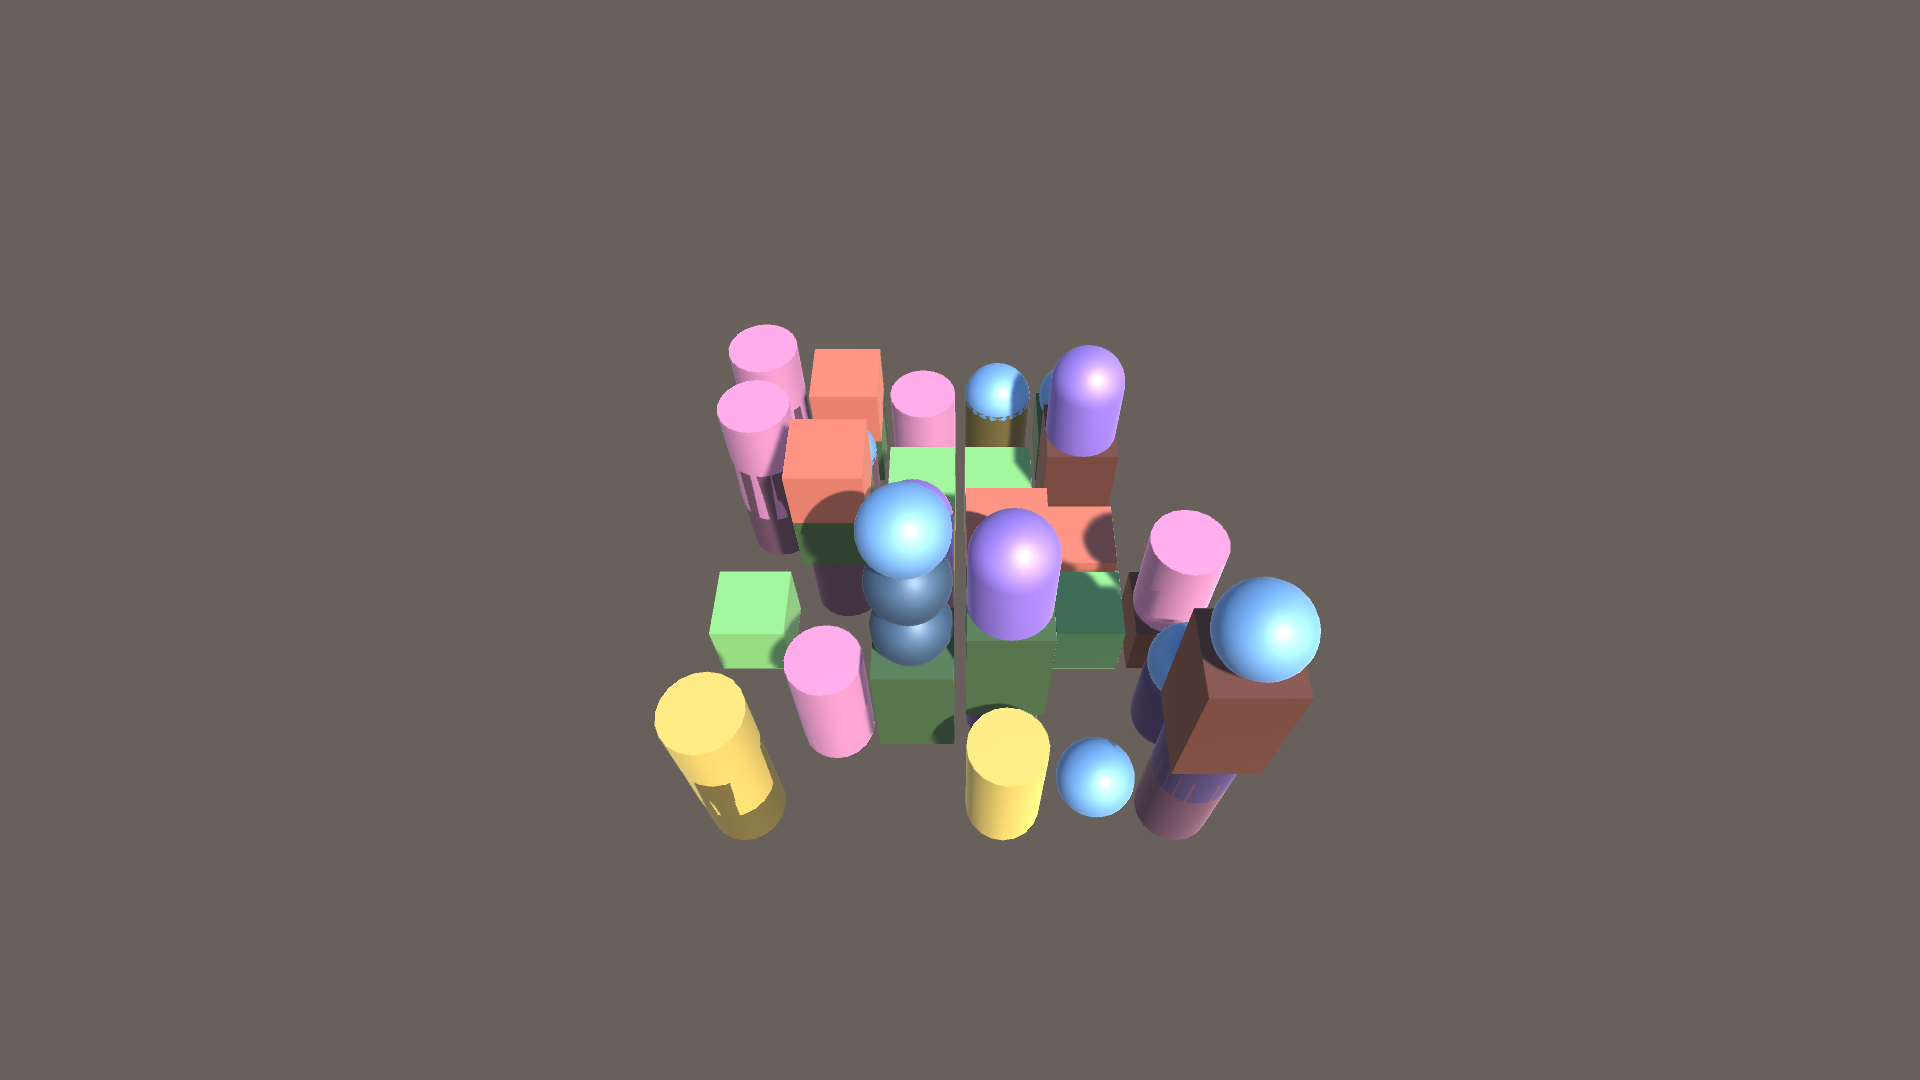
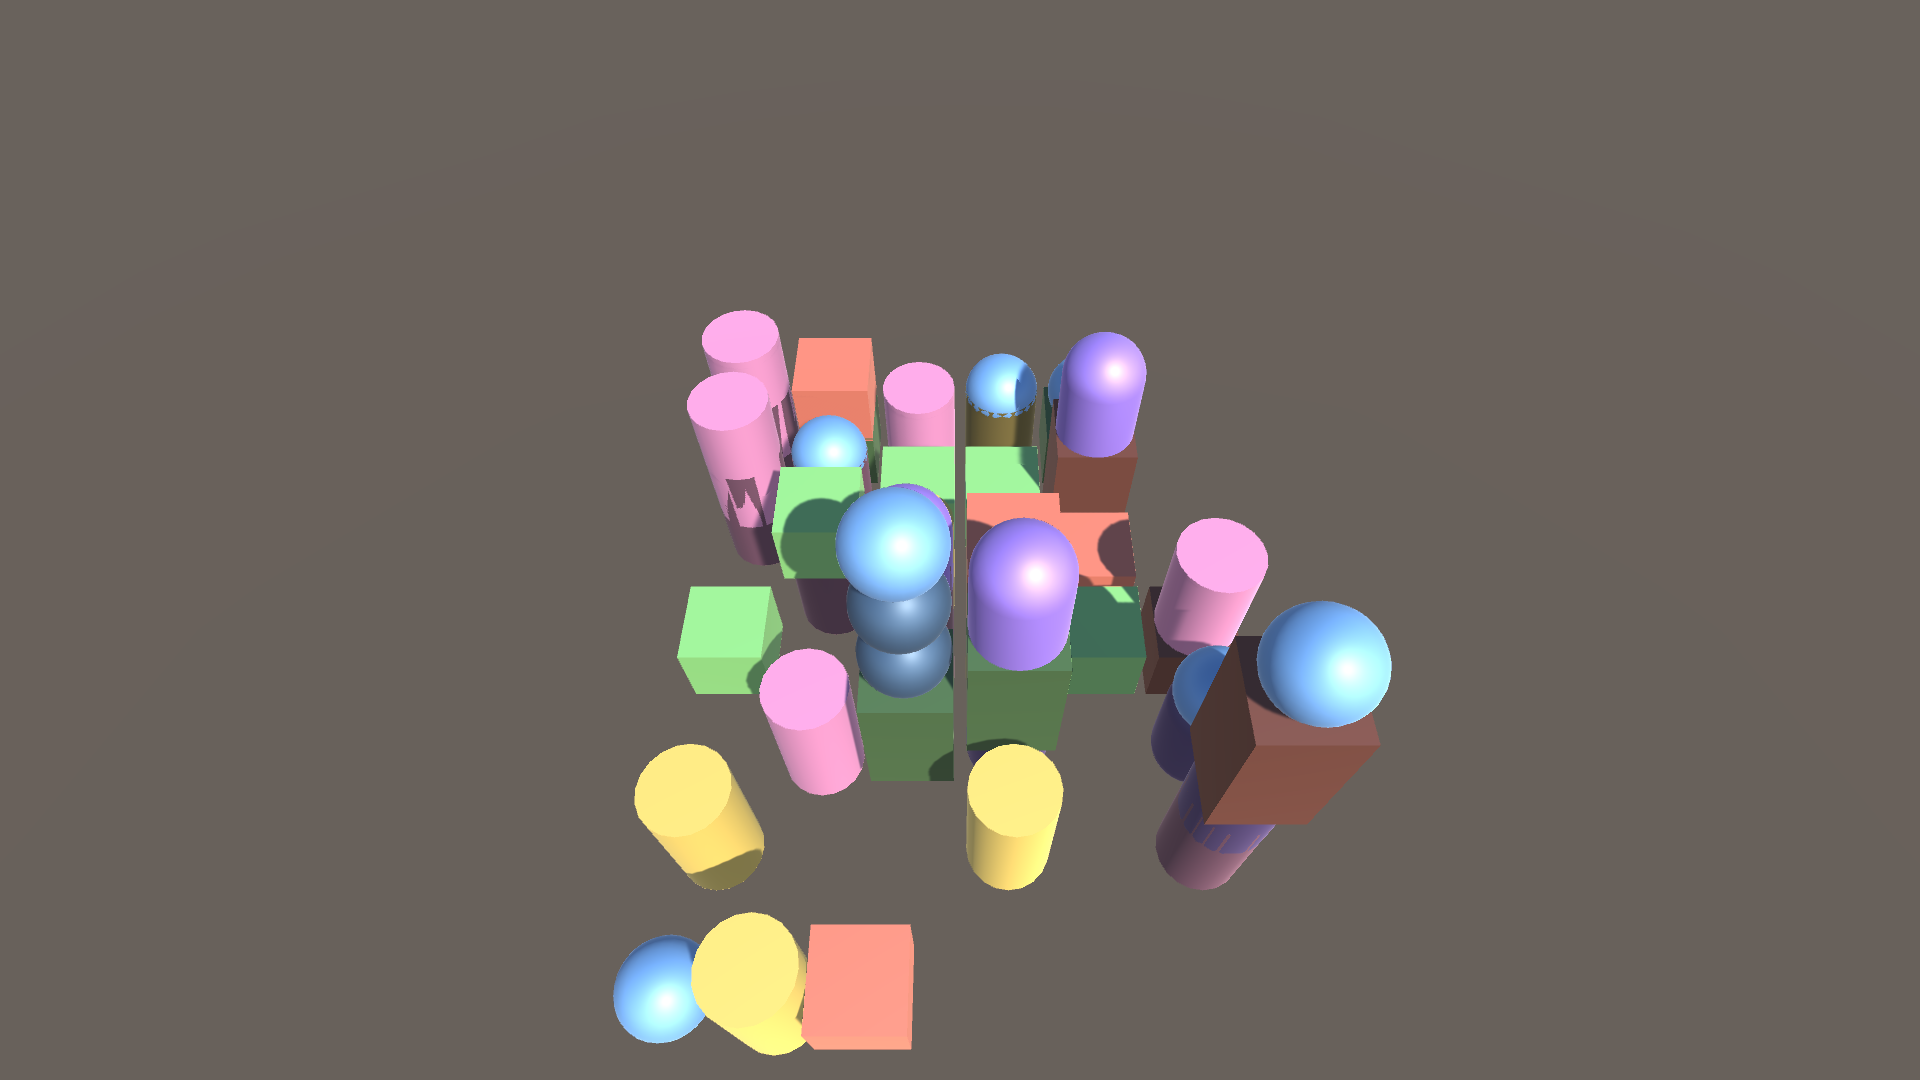
Fit the match camera to the real content points
FitCamera used a box around the board and a full five-tile headroom, so the
board filled about a third of the landscape frame. It now fits every tile's
corners at its layout position, every tray slot, and one popup point above
the tallest stack. The point list is built once per level.

Verified in Unity 6000.4.0f1, Play Mode, Editor: stage 5 (seed 12345) with
three tiles tapped into the tray (Moved x3, tray 3). Projected content
spans 46% of the width at 16:9 (height-limited) and 88% at 9:16. Every
content point and tray corner is inside the viewport at both aspects
(docs/evidence/T2/framing.txt). Console: 0 errors; one Input Manager
deprecation warning.
Not verified: popup and HUD framing (IMGUI is not in render captures),
live window resize. dotnet: CoreTests 109/109; GameCompile 0 errors.

Claude-Session: https://claude.ai/code/session_012P5rTfETeUchgk9jzakDhF

Changed region(s): [[0.3125, 0.275, 0.75, 0.825], [0.3125, 0.825, 0.5, 0.9778]]

diff --git a/PulseArenaGame/Assets/PulseArena/Game/Match/MatchController.cs b/PulseArenaGame/Assets/PulseArena/Game/Match/MatchController.cs
@@ -60,6 +60,7 @@ namespace PulseArena.Game
         private int _maxStack;
         private int _fitWidth;
         private int _fitHeight;
+        private readonly List<Vector3> _fitPoints = new List<Vector3>();
 
         public MatchBoard Board => _board;
 
@@ -98,6 +99,7 @@ namespace PulseArena.Game
             }
 
             _maxStack = MaxStackHeight(level.Tiles);
+            BuildFitPoints(level.Tiles);
             LayoutBoard();
             RefreshTints();
             FitCamera();
@@ -201,11 +203,11 @@ namespace PulseArena.Game
             }
         }
 
-        // Keeps the board, tray and popup room on screen at any aspect ratio. The content's bounding sphere must fit inside
-        // the narrower of the vertical and horizontal fields of view. Only the distance changes; the camera's pitch stays.
+        // Keeps the board, tray and popup room on screen at any aspect ratio. The camera fits the real content points, not a
+        // box around them, so the board takes as much of the frame as the content allows. Only the distance changes.
         private void FitCamera()
         {
-            if (_camera == null || _spec == null)
+            if (_camera == null || _fitPoints.Count == 0)
             {
                 return;
             }
@@ -213,40 +215,67 @@ namespace PulseArena.Game
             _fitWidth = Screen.width;
             _fitHeight = Screen.height;
 
-            float halfBoardX = (_spec.GridWidth - 1) * 0.5f * CellSpacing + TileRadius;
-            float halfBoardZ = (_spec.GridHeight - 1) * 0.5f * CellSpacing + TileRadius;
-            float halfTrayX = (_rules.TrayCapacity - 1) * 0.5f * TraySpacing + TileRadius;
-            float halfX = Mathf.Max(halfBoardX, halfTrayX);
-            float minZ = Mathf.Min(-halfBoardZ, TrayZ - TileRadius);
-            float maxZ = Mathf.Max(halfBoardZ, TrayZ + TileRadius);
-            float maxY = _maxStack * TileHeight + TileHalfHeight + PopupHeadroom;
+            Vector3 min = _fitPoints[0];
+            Vector3 max = _fitPoints[0];
+            foreach (Vector3 p in _fitPoints)
+            {
+                min = new Vector3(Mathf.Min(min.x, p.x), Mathf.Min(min.y, p.y), Mathf.Min(min.z, p.z));
+                max = new Vector3(Mathf.Max(max.x, p.x), Mathf.Max(max.y, p.y), Mathf.Max(max.z, p.z));
+            }
 
-            var min = new Vector3(-halfX, -TileHalfHeight, minZ);
-            var max = new Vector3(halfX, maxY, maxZ);
             Vector3 center = (min + max) * 0.5f;
-
-            // Place the camera on its own view axis so that all eight corners of the content box fit in the frustum.
-            // For a corner at (right, up, ahead) from the content centre, the camera distance d must satisfy
-            // |right| / (d + ahead) <= tan(halfH) and |up| / (d + ahead) <= tan(halfV).
             float tanV = Mathf.Tan(_camera.fieldOfView * Mathf.Deg2Rad * 0.5f);
             float tanH = tanV * _camera.aspect;
             Vector3 right = _camera.transform.right;
             Vector3 up = _camera.transform.up;
             Vector3 forward = _camera.transform.forward;
+
+            // The camera sits at distance d behind the centre on its own view axis. A point at offset rel from the centre is
+            // inside the frustum when its sideways and vertical offsets, divided by the tangent of the half field, do not
+            // exceed its depth (its forward offset plus d). Take the smallest d that holds for every point.
             float distance = 0f;
-            for (int i = 0; i < 8; i++)
+            foreach (Vector3 p in _fitPoints)
             {
-                var corner = new Vector3(
-                    (i & 1) == 0 ? min.x : max.x,
-                    (i & 2) == 0 ? min.y : max.y,
-                    (i & 4) == 0 ? min.z : max.z) - center;
-                float ahead = Dot(corner, forward);
-                float needH = Mathf.Abs(Dot(corner, right)) / tanH - ahead;
-                float needV = Mathf.Abs(Dot(corner, up)) / tanV - ahead;
-                distance = Mathf.Max(distance, Mathf.Max(needH, needV));
+                Vector3 rel = p - center;
+                float ahead = Dot(rel, forward);
+                distance = Mathf.Max(distance, Mathf.Abs(Dot(rel, right)) / tanH - ahead);
+                distance = Mathf.Max(distance, Mathf.Abs(Dot(rel, up)) / tanV - ahead);
             }
 
             _camera.transform.position = center - forward * (distance * FramingMargin);
+        }
+
+        // Points the camera must keep on screen: every tile's corners at its layout position, every tray slot, and a point
+        // above the tallest stack for the popup. Filled once per level, so a window resize refits without allocating.
+        private void BuildFitPoints(IEnumerable<MatchTile> tiles)
+        {
+            _fitPoints.Clear();
+            var perCell = new Dictionary<(int, int), int>();
+            foreach (MatchTile tile in tiles)
+            {
+                var cell = (tile.X, tile.Y);
+                perCell.TryGetValue(cell, out int height);
+                perCell[cell] = height + 1;
+                AddBox(BoardPosition(tile.X, tile.Y, height));
+            }
+
+            for (int i = 0; i < _rules.TrayCapacity; i++)
+            {
+                AddBox(TraySlot(i));
+            }
+
+            _fitPoints.Add(new Vector3(0f, _maxStack * TileHeight + TileHalfHeight + PopupHeadroom, 0f));
+        }
+
+        private void AddBox(Vector3 center)
+        {
+            for (int i = 0; i < 8; i++)
+            {
+                _fitPoints.Add(new Vector3(
+                    center.x + ((i & 1) == 0 ? -TileRadius : TileRadius),
+                    center.y + ((i & 2) == 0 ? -TileHalfHeight : TileHalfHeight),
+                    center.z + ((i & 4) == 0 ? -TileRadius : TileRadius)));
+            }
         }
 
         private static float Dot(Vector3 a, Vector3 b)

diff --git a/docs/BOARD.md b/docs/BOARD.md
@@ -79,4 +79,4 @@ frame time and input latency.
 - 2026-10-11 builder, T2 review: Built-in pipeline recorded under D5 (builder reading only). One soft-shadow directional light. Camera refits to stage 5 at 16:9 and 9:16; all 8 content-box corners project inside the viewport. Evidence: `docs/evidence/T2/` (2 PNGs, framing.txt, graphics-settings.txt). Not verified: popup/HUD framing (IMGUI is not in render-texture captures; waits on T4/T3), live window resize. dotnet: 109/109, GameCompile 0 errors (stubs extended, gate unchanged). Next: T4.
 - 2026-10-11 builder handoff to architect (pulse-arena-archi, Remote Control; delivery not confirmed): T2 review at 7149564. T1 still blocked (Editor restart; quit denied). Questions: (1) CoreTests baseline 109 vs brief's 107, treated as 109 unless told otherwise; (2) confetti: read as waves of at most 40 live, 60 total, unless told otherwise; (3) may builder start T4 (UI Toolkit HUD, D6) while T1 waits? Builder is holding T4 until answered.
 - 2026-10-11: Architect review of T2 (7149564): NOT yet accepted, stays review. Evidence exists and matches claims (framing.txt: all 8 corners inside at 16:9 and 9:16; Built-in reading). Observations from the screenshots: nothing clipped, but the board fills only about a third of the width in landscape, and the tray is not visible in either capture, so tray framing is unproven. Needed to accept: (1) Unity spot-check by me of the camera framing, after the builder says the Editor is free; (2) one capture with the tray visible. Not blocking T4. D5 decided Built-in. Q1 109, Q2 waves of at most 40 live and 60 total (D9), Q3 yes: start T4.
-
+- 2026-10-11 builder, T2 re-capture (for the architect's spot-check): camera now fits the real content points (tiles, tray slots, popup point), not a box. Stage 5 with three tiles in the tray. Landscape 16:9: content spans 46% of the width (was about 31%); all points and tray corners inside. Portrait 9:16: 88% of the width. Evidence replaced in `docs/evidence/T2/`. The Editor is free now (Play Mode stopped, nothing unsaved). T2 stays review. Not verified: popup/HUD framing; live resize. Next: T4 (HUD code); Editor needed again for the T4 Play tests.

diff --git a/PulseArenaGame/UNITY_VERIFICATION_CHECKLIST.md b/PulseArenaGame/UNITY_VERIFICATION_CHECKLIST.md
@@ -34,7 +34,7 @@ Unity version under test: _not yet opened_
 
 ## Match scene framing and light (T2; Unity 6000.4.0f1, Play Mode, Editor; evidence in docs/evidence/T2/)
 - [x] Pulse Arena > Build Match Scene leaves exactly one directional light (soft shadows, rotation 50, -30, 0), read back with `FindObjectsByType<Light>()`
-- [x] Stage 5 (6x6, stack height 5, 7-slot tray row, popup headroom): all 8 corners of the content box project inside the viewport at 16:9 and 9:16 (`framing.txt`)
+- [x] Stage 5 with three tiles in the tray (6x6, stack height 5, 7-slot tray row, popup headroom): every projected content point and every tray slot corner is inside the viewport at 16:9 and 9:16 (`framing.txt`). Content fills 46% of the width at 16:9 and 88% at 9:16; at 16:9 it is limited by height
 - [x] Render pipeline is Built-in (`graphics-settings.txt`)
 - [ ] Popup and HUD framing. **Not verified.** Render-texture captures do not include IMGUI; waits for T4 (HUD) and T3 (world-space popup).
 - [ ] Framing on a real window resize (`Update` refit when Screen size changes). **Not verified**; only `FitCamera` with a forced aspect was run.
